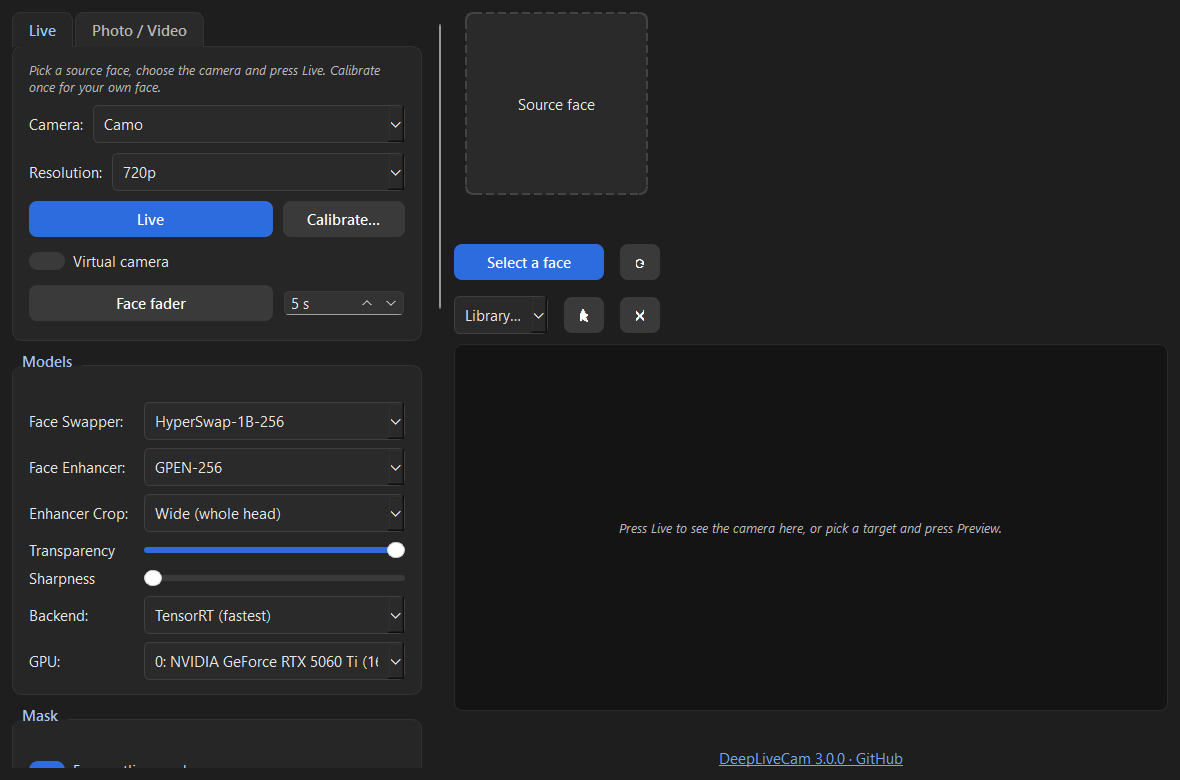
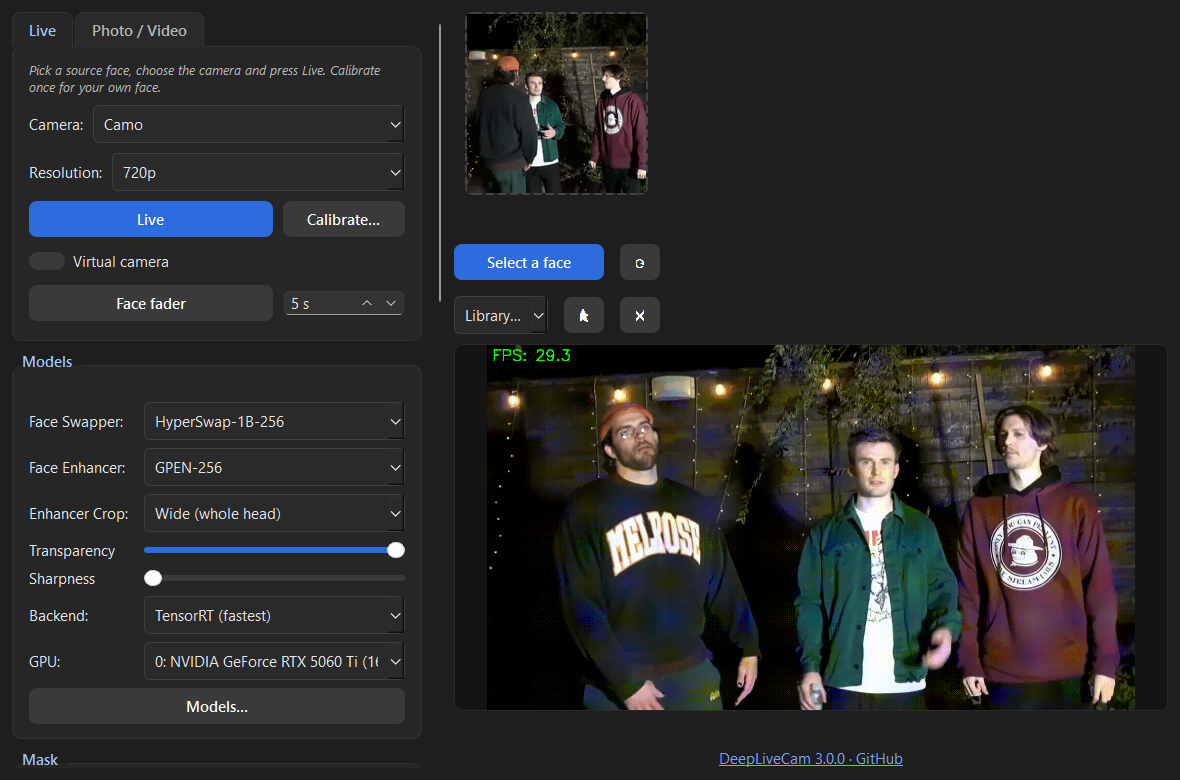
Models dialog, README media once at the top, version 3.1.0
Models… on the Models section opens a catalogue of every model the app
knows (detector pack, swappers, enhancers, occluder) with size and
download state; models download on a thread here instead of stalling the
first Live. README: screenshots and example gifs appear once under the
hero gif, star history once at the end; screenshots regenerated with the
new layout and a real swapped frame; target thumbnail aligned with the
source one.

diff --git a/modules/ui_model_library.py b/modules/ui_model_library.py
@@ -1,0 +1,158 @@
+"""Models dialog: what is downloaded, what is not, fetch ahead of time."""
+
+from __future__ import annotations
+
+from typing import List, Optional
+
+from PySide6.QtCore import QThread, Qt, Signal
+from PySide6.QtWidgets import (
+    QDialog,
+    QHBoxLayout,
+    QHeaderView,
+    QLabel,
+    QPushButton,
+    QTableWidget,
+    QTableWidgetItem,
+    QVBoxLayout,
+)
+
+from modules import model_library
+from modules.gettext import _
+
+KIND_LABELS = {
+    "detector": "Detector",
+    "swapper": "Face swapper",
+    "enhancer": "Face enhancer",
+    "mask": "Mask",
+}
+
+
+class _Downloader(QThread):
+    progress = Signal(str)
+    finished_entry = Signal(int, bool)
+    all_done = Signal()
+
+    def __init__(self, entries: List[model_library.Entry], indices: List[int]) -> None:
+        super().__init__()
+        self._entries = entries
+        self._indices = indices
+        self.cancelled = False
+
+    def run(self) -> None:
+        for index in self._indices:
+            if self.cancelled:
+                break
+            ok = model_library.download(self._entries[index], self.progress.emit)
+            self.finished_entry.emit(index, ok)
+        self.all_done.emit()
+
+
+class ModelLibraryDialog(QDialog):
+    def __init__(self, parent=None) -> None:
+        super().__init__(parent)
+        self.setWindowTitle(_("Models"))
+        self.setModal(False)
+        self.resize(720, 460)
+        self._entries = model_library.catalog()
+        self._worker: Optional[_Downloader] = None
+
+        layout = QVBoxLayout(self)
+        hint = QLabel(_("Every model downloads itself the first time it is used; fetch it here "
+                        "instead so the first Live does not wait. Files go to the models folder."))
+        hint.setWordWrap(True)
+        hint.setObjectName("statusLabel")
+        layout.addWidget(hint)
+
+        self._table = QTableWidget(len(self._entries), 5)
+        self._table.setHorizontalHeaderLabels([_("Model"), _("Type"), _("Size"), _("Status"), ""])
+        self._table.verticalHeader().setVisible(False)
+        self._table.verticalHeader().setDefaultSectionSize(36)
+        self._table.setSelectionMode(QTableWidget.SelectionMode.NoSelection)
+        self._table.setEditTriggers(QTableWidget.EditTrigger.NoEditTriggers)
+        header = self._table.horizontalHeader()
+        header.setSectionResizeMode(0, QHeaderView.ResizeMode.Stretch)
+        for column in (1, 2, 3, 4):
+            header.setSectionResizeMode(column, QHeaderView.ResizeMode.ResizeToContents)
+        layout.addWidget(self._table, 1)
+        self._buttons: List[QPushButton] = []
+        for row, entry in enumerate(self._entries):
+            self._table.setItem(row, 0, QTableWidgetItem(entry.label))
+            self._table.setItem(row, 1, QTableWidgetItem(_(KIND_LABELS.get(entry.kind, entry.kind))))
+            size = QTableWidgetItem(entry.size_text)
+            size.setTextAlignment(Qt.AlignmentFlag.AlignRight | Qt.AlignmentFlag.AlignVCenter)
+            self._table.setItem(row, 2, size)
+            self._table.setItem(row, 3, QTableWidgetItem(""))
+            button = QPushButton(_("Download"))
+            button.setObjectName("secondary")
+            button.clicked.connect(lambda _checked=False, r=row: self._download([r]))
+            self._table.setCellWidget(row, 4, button)
+            self._buttons.append(button)
+            self._refresh_row(row)
+
+        bottom = QHBoxLayout()
+        self._status = QLabel("")
+        self._status.setObjectName("statusLabel")
+        bottom.addWidget(self._status, 1)
+        self._all = QPushButton(_("Download all missing"))
+        self._all.clicked.connect(self._download_missing)
+        bottom.addWidget(self._all)
+        close = QPushButton(_("Close"))
+        close.setObjectName("secondary")
+        close.clicked.connect(self.close)
+        bottom.addWidget(close)
+        layout.addLayout(bottom)
+        self._update_all_button()
+
+    def _refresh_row(self, row: int) -> None:
+        entry = self._entries[row]
+        self._table.item(row, 3).setText(_("downloaded") if entry.present else _("not downloaded"))
+        self._buttons[row].setEnabled(not entry.present and self._worker is None)
+        self._buttons[row].setText(_("Ready") if entry.present else _("Download"))
+
+    def _update_all_button(self) -> None:
+        missing = [i for i, e in enumerate(self._entries) if not e.present]
+        total = sum(e.size or 0 for e in self._entries if not e.present)
+        self._all.setEnabled(bool(missing) and self._worker is None)
+        if missing:
+            mb = total / (1024 * 1024)
+            size = f"{mb / 1024:.1f} GB" if mb >= 1024 else f"{mb:.0f} MB"
+            self._all.setText(_("Download all missing ({size})").format(size=size))
+        else:
+            self._all.setText(_("Everything is downloaded"))
+
+    def _download_missing(self) -> None:
+        self._download([i for i, e in enumerate(self._entries) if not e.present])
+
+    def _download(self, indices: List[int]) -> None:
+        if self._worker is not None or not indices:
+            return
+        self._worker = _Downloader(self._entries, indices)
+        self._worker.progress.connect(self._status.setText)
+        self._worker.finished_entry.connect(self._on_entry_done)
+        self._worker.all_done.connect(self._on_all_done)
+        for button in self._buttons:
+            button.setEnabled(False)
+        self._all.setEnabled(False)
+        self._worker.start()
+
+    def _on_entry_done(self, row: int, ok: bool) -> None:
+        if not ok:
+            self._status.setText(_("Could not download {name} — see the console.")
+                                 .format(name=self._entries[row].label))
+        self._refresh_row(row)
+
+    def _on_all_done(self) -> None:
+        self._worker = None
+        for row in range(len(self._entries)):
+            self._refresh_row(row)
+        self._update_all_button()
+        if all(e.present for e in self._entries):
+            self._status.setText(_("Everything is downloaded"))
+        elif not self._status.text().startswith(_("Could not download")):
+            self._status.setText("")
+
+    def closeEvent(self, event) -> None:
+        if self._worker is not None and self._worker.isRunning():
+            self._worker.cancelled = True
+            self._worker.wait(2000)
+        event.accept()

diff --git a/modules/model_library.py b/modules/model_library.py
@@ -1,0 +1,79 @@
+"""Catalogue of every model the app can use, with download state.
+
+Every model already downloads itself on first use, which stalls the first
+Live for a minute per model.  The catalogue lets the user see what is on
+disk, fetch models ahead of time (or all of them), and know each one's
+size before committing bandwidth.
+"""
+
+from __future__ import annotations
+
+from dataclasses import dataclass
+from typing import Callable, List, Optional
+
+from modules import enhancer_registry, swapper_registry
+from modules.model_downloader import (
+    MODEL_SIZES,
+    ensure_insightface_pack,
+    ensure_model,
+    expected_size,
+    is_present,
+)
+from modules.face_occluder import MODEL_FILE as OCCLUDER_FILE
+
+INSIGHTFACE_PACK = "buffalo_l"
+
+
+@dataclass
+class Entry:
+    file: str        # file name under models/ (or the pack name)
+    label: str
+    kind: str        # "swapper" | "enhancer" | "mask" | "detector"
+    size: Optional[int]
+    present: bool
+    used_by: str = ""
+
+    @property
+    def size_text(self) -> str:
+        if not self.size:
+            return "?"
+        mb = self.size / (1024 * 1024)
+        return f"{mb / 1024:.1f} GB" if mb >= 1024 else f"{mb:.0f} MB"
+
+
+def _pack_present() -> bool:
+    import os
+
+    dest = os.path.join(os.path.expanduser("~"), ".insightface", "models", INSIGHTFACE_PACK)
+    members = [n for n in MODEL_SIZES if n.startswith(f"{INSIGHTFACE_PACK}/")]
+    return bool(members) and all(is_present(m, dest) for m in members)
+
+
+def catalog() -> List[Entry]:
+    entries: List[Entry] = []
+    pack_size = sum(v for k, v in MODEL_SIZES.items() if k.startswith(f"{INSIGHTFACE_PACK}/"))
+    entries.append(Entry(INSIGHTFACE_PACK, "insightface buffalo_l (detector, landmarks, ArcFace)",
+                         "detector", pack_size, _pack_present(), "everything"))
+    for spec in swapper_registry.SWAPPERS:
+        entries.append(Entry(spec.model_file, spec.label, "swapper",
+                             expected_size(spec.model_file), is_present(spec.model_file),
+                             "Face Swapper"))
+    for spec in enhancer_registry.ENHANCERS:
+        entries.append(Entry(spec.model_file, spec.label, "enhancer",
+                             expected_size(spec.model_file), is_present(spec.model_file),
+                             "Face Enhancer"))
+    entries.append(Entry(OCCLUDER_FILE, "XSeg occluder", "mask",
+                         expected_size(OCCLUDER_FILE), is_present(OCCLUDER_FILE), "Occlusion mask"))
+    return entries
+
+
+def download(entry: Entry, status: Optional[Callable[[str], None]] = None) -> bool:
+    """Fetch one entry (blocking); returns True when it is on disk."""
+    if status:
+        status(f"Downloading {entry.label} ({entry.size_text})...")
+    if entry.kind == "detector":
+        ok = ensure_insightface_pack(entry.file)
+    else:
+        ok = ensure_model(entry.file) is not None
+    entry.present = ok
+    return ok

diff --git a/modules/ui.py b/modules/ui.py
@@ -1161,6 +1161,7 @@ class MainWindow(QMainWindow):
 
     def _build_target_column(self) -> QVBoxLayout:
         col = QVBoxLayout()
+        col.setContentsMargins(0, 0, 0, 0)
         self.target_label = _make_image_drop(_("Target"), self._preview_size)
         col.addWidget(self.target_label, alignment=Qt.AlignmentFlag.AlignCenter)
         tgt_row = QHBoxLayout()
@@ -1304,6 +1305,12 @@ class MainWindow(QMainWindow):
         self.cb_gpu.currentIndexChanged.connect(self._on_gpu_change)
         grid.addWidget(self.cb_gpu, 6, 1)
 
+        self.btn_models = QPushButton(_("Models…"))
+        self.btn_models.setObjectName("secondary")
+        self.btn_models.setToolTip(_("See which models are downloaded and fetch the rest ahead of time"))
+        self.btn_models.clicked.connect(self._on_models_dialog)
+        grid.addWidget(self.btn_models, 7, 0, 1, 2)
+
         grid.addWidget(QLabel(_("Transparency")), 3, 0)
         self.s_transparency = self._slider(0.0, 1.0, 1.0, 100, self._on_transparency_change)
         self.s_transparency.setToolTip(
@@ -1316,8 +1323,15 @@ class MainWindow(QMainWindow):
         self.s_sharpness.setToolTip(_("Sharpen the enhanced face output"))
         grid.addWidget(self.s_sharpness, 4, 1)
 
-        grid.setRowStretch(7, 1)
+        grid.setRowStretch(8, 1)
         return page
+
+    def _on_models_dialog(self) -> None:
+        from modules.ui_model_library import ModelLibraryDialog
+
+        dialog = ModelLibraryDialog(self)
+        dialog.show()
+        self._models_dialog = dialog
 
     def _on_gpu_change(self, index: int) -> None:
         if index < 0 or index == modules.globals.gpu_device:

diff --git a/modules/metadata.py b/modules/metadata.py
@@ -1,3 +1,3 @@
 name = 'Deep-Live-Cam'
-version = '3.0.0'
+version = '3.1.0'
 edition = 'Live Fork'

diff --git a/README.md b/README.md
@@ -13,6 +13,16 @@
   <img src="media/demo.gif" alt="Live face swap demo" width="800">
 </p>
 
+<p align="center">
+  <img src="media/ui_live.png" alt="Live mode" width="420">
+  <img src="media/ui_media.png" alt="Photo / Video mode" width="420">
+</p>
+
+<p align="center">
+  <img src="media/ludwig.gif" alt="Mouth mask keeps the real mouth" width="400">
+  <img src="media/streamers.gif" alt="Face mapping onto several people" width="400">
+</p>
+
 ---
 
 ## English
@@ -36,19 +46,6 @@ A fork of [Deep-Live-Cam](https://github.com/hacksider/Deep-Live-Cam) built arou
 - 🎛 **Instant toggles** — mirror, masks and models re-detect on the next frame instead of dropping the swap for a moment
 - 🧩 Swappers: Inswapper-128, HyperSwap 1a / 1b / 1c (256 px). Enhancers: GPEN-256 / 512 / 1024, GFPGAN 1.4, CodeFormer, RestoreFormer++
 - 🖥 Responsive PySide6 UI with Live and Photo / Video modes, English and Russian (switchable at runtime)
-
-### What it looks like
-
-<p align="center">
-  <img src="media/ui_live.png" alt="Live mode" width="420">
-  <img src="media/ui_media.png" alt="Photo / Video mode" width="420">
-</p>
-
-<p align="center">
-  <img src="media/ludwig.gif" alt="Mouth mask keeps the real mouth" width="400">
-  <img src="media/streamers.gif" alt="Face mapping onto several people" width="400">
-  <br><sub>Mouth mask and face mapping — demos from upstream Deep-Live-Cam, both still here.</sub>
-</p>
 
 ### Requirements
 
@@ -118,7 +115,7 @@ The left column holds the mode (Live | Photo / Video) with its controls, then th
 |---|---|
 | Live | camera, resolution (360p–1440p), Live, Calibrate…, Virtual camera, Face fader |
 | Photo / Video | Start, Preview, keep fps / audio / frames, many faces, map faces |
-| Models | swapper, enhancer, enhancer crop, transparency, sharpness, backend (TensorRT / CUDA graph), GPU |
+| Models | swapper, enhancer, enhancer crop, transparency, sharpness, backend (TensorRT / CUDA graph), GPU, **Models…** (what is downloaded, fetch the rest ahead of time) |
 | Mask | face outline mask, occlusion mask (XSeg) and its interval, Poisson blend, mask overlay, mouth mask (region or lips-only, the latter keeps a moustache swapped), real blinks, real eyes, forehead and chin reach |
 | Motion | face tracking, low-latency reprojection, 3D head pose (angle limits, 3D outline), calibration profiles and their switches |
 | Output | webcam colour fix, FPS counter, mirror, **Max FPS** (cap the swap rate to spare the GPU; the preview still shows every camera frame), language, Destroy |
@@ -180,10 +177,6 @@ Built on [Deep-Live-Cam](https://github.com/hacksider/Deep-Live-Cam) by hackside
 
 AGPL-3.0, as upstream. Models keep their own licences.
 
-### Star history
-
-[![Star History Chart](https://api.star-history.com/svg?repos=beekamai/DeepLiveCam&type=Date)](https://star-history.com/#beekamai/DeepLiveCam&Date)
-
 ---
 
 ## Русский
@@ -207,19 +200,6 @@ AGPL-3.0, as upstream. Models keep their own licences.
 - 🎛 **Мгновенные переключатели** — зеркало, маски и модели передетектируют на следующем кадре, без провала в оригинал
 - 🧩 Свапперы: Inswapper-128, HyperSwap 1a / 1b / 1c (256 px). Улучшатели: GPEN-256 / 512 / 1024, GFPGAN 1.4, CodeFormer, RestoreFormer++
 - 🖥 Адаптивный интерфейс на PySide6 с режимами Live и Фото / Видео, английский и русский (переключается на лету)
-
-### Как это выглядит
-
-<p align="center">
-  <img src="media/ui_live.png" alt="Режим Live" width="420">
-  <img src="media/ui_media.png" alt="Режим Фото / Видео" width="420">
-</p>
-
-<p align="center">
-  <img src="media/ludwig.gif" alt="Маска рта оставляет настоящий рот" width="400">
-  <img src="media/streamers.gif" alt="Сопоставление лиц на нескольких людях" width="400">
-  <br><sub>Маска рта и сопоставление лиц — демо из исходного Deep-Live-Cam, обе функции на месте.</sub>
-</p>
 
 ### Требования
 
@@ -289,7 +269,7 @@ python run.py --execution-provider cuda        # coreml на Apple Silicon, cpu 
 |---|---|
 | Live | камера, разрешение (360p–1440p), Live, Калибровка…, виртуальная камера, плавная подмена |
 | Фото / Видео | Старт, Предпросмотр, сохранить fps / звук / кадры, много лиц, сопоставление лиц |
-| Модели | сваппер, улучшатель, кроп улучшателя, прозрачность, резкость, бэкенд (TensorRT / CUDA-граф), GPU |
+| Модели | сваппер, улучшатель, кроп улучшателя, прозрачность, резкость, бэкенд (TensorRT / CUDA-граф), GPU, **Модели…** (что скачано, докачать остальное заранее) |
 | Маска | маска по контуру, маска перекрытий (XSeg) и её интервал, Poisson-смешивание, показ маски, маска рта (область или только губы — второй режим не раскрывает усы), настоящие моргания, свои глаза, запас на лоб и подбородок |
 | Движение | трекинг лица, репроекция, 3D-поза головы (пороги углов, 3D-контур), профили калибровки и их переключатели |
 | Вывод | цветокоррекция веб-камеры, счётчик FPS, зеркало, **Макс. FPS** (потолок частоты подмены, чтобы разгрузить GPU; превью по-прежнему показывает каждый кадр камеры), язык, Закрыть |
@@ -351,6 +331,8 @@ docs/                   заметки по устройству
 
 AGPL-3.0, как у исходного проекта. Модели — под своими лицензиями.
 
-### История звёзд
+---
+
+### ⭐ Star history
 
 [![Star History Chart](https://api.star-history.com/svg?repos=beekamai/DeepLiveCam&type=Date)](https://star-history.com/#beekamai/DeepLiveCam&Date)
